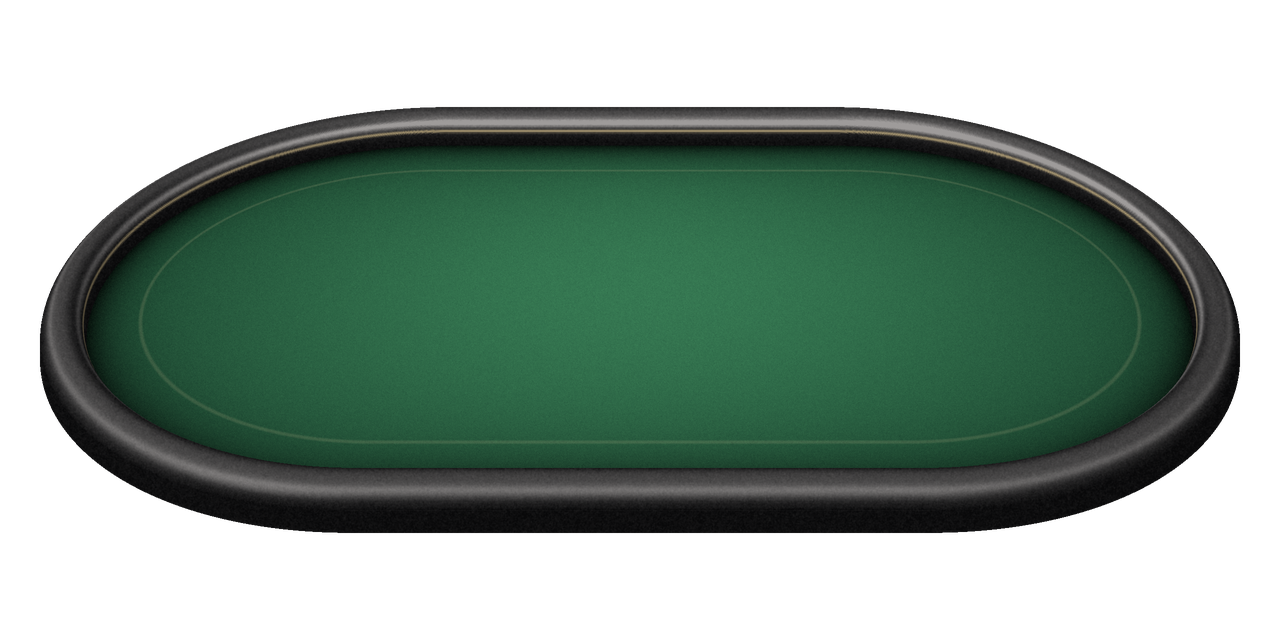
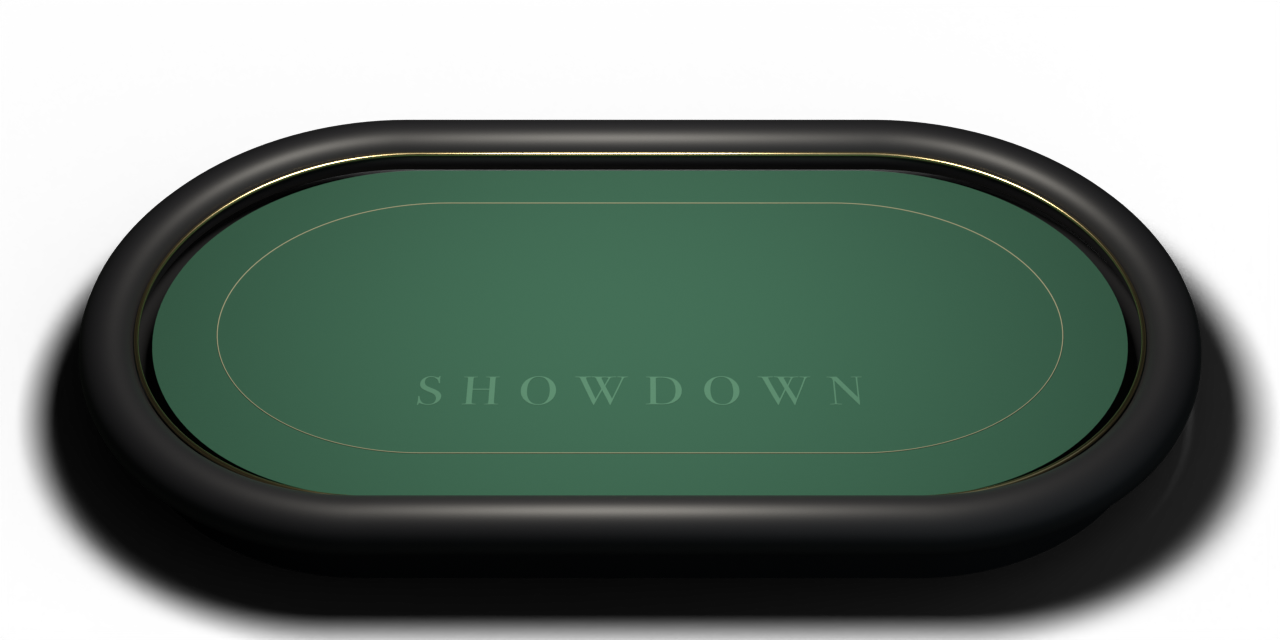
feat(table): the table as a rendered 3D model, with the ring measured from it

diff --git a/lib/table-seating.ts b/lib/table-seating.ts
@@ -18,7 +18,13 @@ export type SeatPoint = { left: number; top: number }
  * A wide oval is very nearly circular in percentage terms. Seats level with
  * the middle are eased in off the rail so a plate does not hang over the wood.
  */
-const LANDSCAPE = { rx: 49, ry: 42 } as const
+const LANDSCAPE = { rx: 47, ry: 39.3, cy: 55 } as const
+
+/**
+ * How square the ring is. Two is an honest ellipse; higher pushes the curve out
+ * towards a rounded rectangle, which is the shape of the table.
+ */
+const SQUIRCLE = 3.2
 
 /**
  * How much a seat level with the middle is pulled inboard, in percent.
@@ -44,63 +50,63 @@ const PORTRAIT: Record<number, SeatPoint[]> = {
   1: [{ left: 50, top: 86 }],
   2: [
     { left: 50, top: 86 },
-    { left: 50, top: 16 },
+    { left: 50, top: 6 },
   ],
   3: [
     { left: 50, top: 86 },
-    { left: 13, top: 34 },
-    { left: 87, top: 34 },
+    { left: 14.5, top: 34 },
+    { left: 83, top: 34 },
   ],
   4: [
     { left: 50, top: 86 },
-    { left: 13, top: 50 },
-    { left: 50, top: 16 },
-    { left: 87, top: 50 },
+    { left: 14.5, top: 50 },
+    { left: 50, top: 6 },
+    { left: 83, top: 50 },
   ],
   5: [
     { left: 50, top: 86 },
-    { left: 13, top: 70 },
-    { left: 13, top: 22 },
-    { left: 87, top: 22 },
-    { left: 87, top: 70 },
+    { left: 14.5, top: 70 },
+    { left: 14.5, top: 22 },
+    { left: 83, top: 22 },
+    { left: 83, top: 70 },
   ],
   6: [
     { left: 50, top: 86 },
-    { left: 13, top: 72 },
-    { left: 13, top: 26 },
-    { left: 50, top: 16 },
-    { left: 87, top: 26 },
-    { left: 87, top: 72 },
+    { left: 14.5, top: 72 },
+    { left: 14.5, top: 26 },
+    { left: 50, top: 6 },
+    { left: 83, top: 26 },
+    { left: 83, top: 72 },
   ],
   7: [
     { left: 50, top: 86 },
-    { left: 15, top: 78 },
-    { left: 11, top: 50 },
+    { left: 17, top: 78 },
+    { left: 13, top: 50 },
     { left: 14, top: 22 },
-    { left: 50, top: 16 },
+    { left: 50, top: 6 },
     { left: 86, top: 22 },
-    { left: 85, top: 78 },
+    { left: 83, top: 78 },
   ],
   8: [
     { left: 50, top: 86 },
-    { left: 15, top: 79 },
-    { left: 11, top: 52 },
+    { left: 17, top: 79 },
+    { left: 13, top: 52 },
     { left: 14, top: 24 },
-    { left: 50, top: 16 },
+    { left: 50, top: 6 },
     { left: 86, top: 24 },
-    { left: 89, top: 52 },
-    { left: 85, top: 79 },
+    { left: 87, top: 52 },
+    { left: 83, top: 79 },
   ],
   9: [
     { left: 50, top: 86 },
-    { left: 16, top: 82 },
-    { left: 10, top: 60 },
-    { left: 12, top: 34 },
-    { left: 33, top: 16 },
-    { left: 67, top: 16 },
-    { left: 88, top: 34 },
-    { left: 90, top: 60 },
-    { left: 84, top: 82 },
+    { left: 17, top: 82 },
+    { left: 13.5, top: 60 },
+    { left: 13.5, top: 34 },
+    { left: 33, top: 6 },
+    { left: 67, top: 6 },
+    { left: 86.5, top: 34 },
+    { left: 86.5, top: 60 },
+    { left: 83, top: 82 },
   ],
 }
 
@@ -129,14 +135,17 @@ export function seatRing(count: number, portrait = false): SeatPoint[] {
     }))
   }
 
-  const { rx, ry } = LANDSCAPE
+  const { rx, ry, cy } = LANDSCAPE
   return Array.from({ length: n }, (_, index) => {
     const radians = ((90 + (index * 360) / n) * Math.PI) / 180
     const cos = Math.cos(radians)
+    const squared = (value: number) => Math.sign(value) * Math.abs(value) ** (2 / SQUIRCLE)
     const pull = Math.max(0, (Math.abs(cos) - 0.9) / 0.1) * RAIL_PULL
     return {
-      left: 50 + (rx - pull) * cos,
-      top: 50 + ry * Math.sin(radians),
+      left: 50 + (rx - pull) * squared(cos),
+      // Below the middle, because the table is seen from a player's eye: the
+      // far rail is nearer the centre of the picture than the near one is.
+      top: cy + ry * squared(Math.sin(radians)),
     }
   })
 }

diff --git a/components/TableFelt.tsx b/components/TableFelt.tsx
@@ -161,15 +161,7 @@ export function TableFelt({
     <div className="table-stage absolute inset-x-1.5 top-1 bottom-2 max-sm:bottom-23 sm:relative sm:inset-auto sm:top-auto sm:right-auto sm:bottom-auto sm:left-auto sm:aspect-2/1 sm:max-h-full sm:w-full sm:max-w-5xl">
       <TableBody />
       <div className="table-felt">
-        {/* The house mark printed on the cloth. Barely there, and never
-                  read aloud — it sits below the board, on the apron of felt
-                  between the last community card and the near rail. */}
-        <span
-          className="felt-mark pointer-events-none absolute top-[68%] left-1/2 -translate-x-1/2 text-[10px] font-semibold uppercase select-none sm:top-[79%]"
-          aria-hidden
-        >
-          Showdown
-        </span>
+
 
         {/* Pot and board */}
         <div

diff --git a/lib/__tests__/table-seating.test.ts b/lib/__tests__/table-seating.test.ts
@@ -33,7 +33,8 @@ describe('the ring of seats', () => {
     // A seat belongs on the wood, half off the cloth, the way ClubGG sits one
     // — not standing on the felt where the cards are played.
     const level = seatRing(4)[1]
-    expect(level.top).toBeCloseTo(50)
+    expect(level.top).toBeGreaterThan(50)
+    expect(level.top).toBeLessThan(60)
     expect(level.left).toBeLessThan(10)
   })
 

diff --git a/scripts/table-ring.py b/scripts/table-ring.py
@@ -1,0 +1,44 @@
+"""Where a rendered table's rail falls, as the seat ring needs it.
+
+The ring in `lib/table-seating.ts` is percentages of the felt box the seats are
+positioned inside, and the table is a picture. Re-rendering the table moves the
+rail, and the ring has to follow — which was guesswork until this measured it.
+
+    python3 scripts/table-ring.py public/table-desktop-salon.png 8.5 6
+    python3 scripts/table-ring.py public/table-mobile.png 7.5 6.5
+
+The two numbers are `.table-felt`'s inset in `globals.css`, vertical first.
+"""
+
+import sys
+import numpy as np
+from PIL import Image
+
+# Where the rail's middle sits in a rendered table, as the ring needs it: in
+# percentages of the felt box the seats are positioned inside.
+path, inset_y, inset_x = sys.argv[1], float(sys.argv[2]), float(sys.argv[3])
+im = np.array(Image.open(path).convert('RGBA')).astype(np.int16)
+a = im[..., 3]
+h, w = a.shape
+solid = a > 235
+rows = np.where(solid.max(axis=1))[0]
+cols = np.where(solid.max(axis=0))[0]
+green = (im[..., 1] > im[..., 0] + 12) & (im[..., 1] > im[..., 2] + 6) & solid
+gr = np.where(green.max(axis=1))[0]
+gc = np.where(green.max(axis=0))[0]
+
+rail = {
+    'top': (rows[0] + gr[0]) / 2 / h,
+    'bottom': (rows[-1] + gr[-1]) / 2 / h,
+    'left': (cols[0] + gc[0]) / 2 / w,
+    'right': (cols[-1] + gc[-1]) / 2 / w,
+}
+# The felt box is inset from the stage, and the ring is a percentage of it.
+fx, fw = inset_x / 100, 1 - 2 * inset_x / 100
+fy, fh = inset_y / 100, 1 - 2 * inset_y / 100
+left = (rail['left'] - fx) / fw * 100
+right = (rail['right'] - fx) / fw * 100
+top = (rail['top'] - fy) / fh * 100
+bottom = (rail['bottom'] - fy) / fh * 100
+print(f"rx {(right - left) / 2:.1f}  ry {(bottom - top) / 2:.1f}  cy {(top + bottom) / 2:.1f}")
+print(f"  (sides {left:.1f} and {right:.1f}, rails {top:.1f} and {bottom:.1f})")

diff --git a/scripts/render-table-3d.py b/scripts/render-table-3d.py
@@ -31,15 +31,16 @@ POSES = {
     # Landscape: the wide 2:1 felt a desktop draws.
     'desktop': {
         'size': (1280, 640),
-        'camera': (0.0, -3.15, 1.78),
-        'lens': 50,
+        'camera': (0.0, -2.8, 2.72),
+        'lens': 54,
         'out': 'public/table-desktop-salon.png',
     },
     # Portrait: the same table stood on its end for a phone.
     'mobile': {
         'size': (864, 1152),
-        'camera': (0.0, -1.95, 2.55),
+        'camera': (0.0, -2.22, 2.88),
         'lens': 50,
+        'look': (0.0, 0.0, -0.42),
         'turn': True,
         'out': 'public/table-mobile.png',
     },
@@ -171,6 +172,10 @@ def build():
     body.scale = (0.99, 0.99, 1.0)
     body.data.materials.append(material('body', (0.014, 0.014, 0.016), 0.6))
 
+    line = stadium('line', z=0.0007, fill=False, bevel=0.0012)
+    line.scale = (0.8, 0.66, 1.0)
+    line.data.materials.append(material('line', (0.42, 0.4, 0.26), 0.85))
+
     inlay = stadium('inlay', z=0.027, fill=False, bevel=0.005)
     inlay.scale = (0.945, 0.905, 1.0)
     inlay.data.materials.append(material('brass', (0.78, 0.62, 0.32), 0.22, metallic=1.0))
@@ -262,7 +267,9 @@ def camera(pose):
     bpy.context.collection.objects.link(obj)
 
     target = bpy.data.objects.new('target', None)
-    target.location = (0, 0, 0)
+    # Aiming below the cloth tips the camera down, which lifts the table in the
+    # frame — the phone pose needs it, or the near cushion runs off the bottom.
+    target.location = pose.get('look', (0, 0, 0))
     bpy.context.collection.objects.link(target)
     track = obj.constraints.new('TRACK_TO')
     track.target = target

diff --git a/docs/plans/clubs-progress.md b/docs/plans/clubs-progress.md
@@ -546,3 +546,30 @@ deal, in a quick game, where no chosen face is ever drawn.
 - *A checkbox of our own* (`components/ui/checkbox.tsx`): a brass-rimmed square
   in place of the browser's blue tick, used by sit-out, auto-approve, repeat
   and the lobby's "list it publicly".
+
+## The table, rendered in 3D
+
+- *`scripts/render-table-3d.py`* builds the table as real geometry in Blender
+  and renders it: one outline makes the cloth (filled), the cushion (swept with
+  a circle) and the body (extruded down), so nothing drifts out of line. Felt
+  with cloth sheen and a woven bump, leather with grain and a thin coat, brass
+  for the inlay; a warm lamp over the cloth and a cold rim behind; the floor is
+  a shadow catcher, so what ships is the table and its shadow on transparency.
+- *The model is the script, not a `.blend`*: it can be read and reviewed.
+  Nothing runs at build — the PNGs are committed, as the flat renderer's were.
+- *The house mark is printed on the cloth* in the didone the app letters
+  everything else in, so it takes the same lamp. The CSS mark it replaced is
+  gone; drawing both printed it twice.
+- *`--pose mobile`* renders the phone's table, aimed a little below the cloth so
+  the near cushion stays in frame.
+- *Colour as authored*: Blender grades through AgX by default, which pulls the
+  colour out of the highlights and turned racing green into sage whatever the
+  material said. This is a picture the app composites, not a photograph.
+- *`scripts/table-ring.py`* measures where the rail falls in a render, in the
+  percentages `table-seating.ts` needs, so re-rendering the table no longer
+  means guessing the seat ring.
+- *The ring itself* is a squircle now rather than an ellipse — the table is a
+  stadium, and an honest ellipse cut inside the rail on the two shoulders — and
+  it sits below the middle of the box, because the table is seen from a
+  player's eye rather than from above.
+
